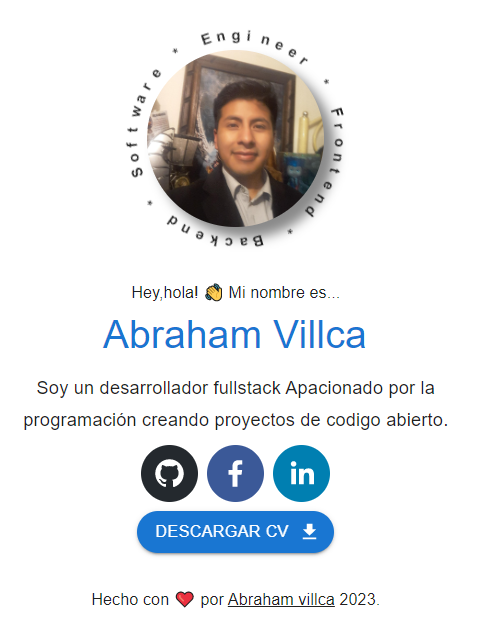
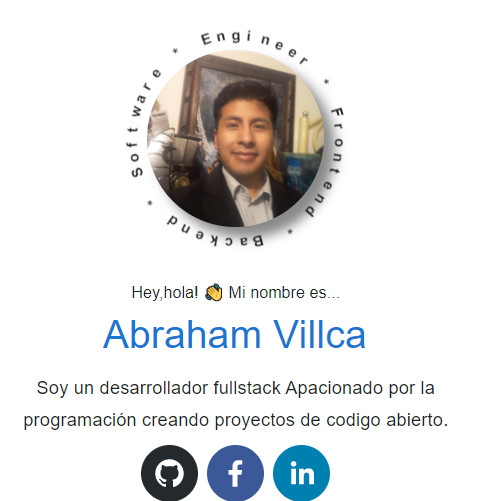
agregamos proyecto bsuca minas

Changed region(s): [[0.0301, 0.0299, 0.9036, 1.0]]

diff --git a/src/componentes/Proyectos.js b/src/componentes/Proyectos.js
@@ -13,6 +13,7 @@ import ButtonGroup from "@mui/material/ButtonGroup";
 import portafolio from "./images/proyectos/portafolio.png";
 import obi from "./images/proyectos/obi.png";
 import goldprice from "./images/proyectos/goldprice.png";
+import BuscaMinas from "./images/proyectos/buscaminas.png";
 import "../Cards.css";
 export default function Proyectos() {
   return (
@@ -51,7 +52,7 @@ export default function Proyectos() {
           </Grid>
         ))}
       </Grid>
-      <h1></h1>
+      <br/>
     </Box>
   );
 }
@@ -78,4 +79,12 @@ const itemData = [
     demo: "https://vicovillca.github.io/GoldPrice",
     git: "https://github.com/VicoVillca/Obi-FontEnd",
   },
+  {
+    img: BuscaMinas,
+    title: "BuscaMinas",
+    descripcion:"juego clasico desarrollado con reactjs",
+    demo: "#",
+    git: "https://github.com/VicoVillca/BuscaMinas",
+  },
+  
 ];

diff --git a/src/componentes/Perfil.js b/src/componentes/Perfil.js
@@ -28,7 +28,7 @@ export default function Perfil() {
 
   return (
     <Grid container padding={2}>
-      <Grid item xs={12} style={{ height: "65vh", backgroundColor: "" }}>
+      <Grid item xs={12} style={{ height: "100%", backgroundColor: "" }}>
         <Stack direction="column" justifyContent="center" alignItems="center">
           <SpinningText text="Frontend * Backend * Software * Engineer * ">
             <img src={GotMilk} alt="Got Milk" />
